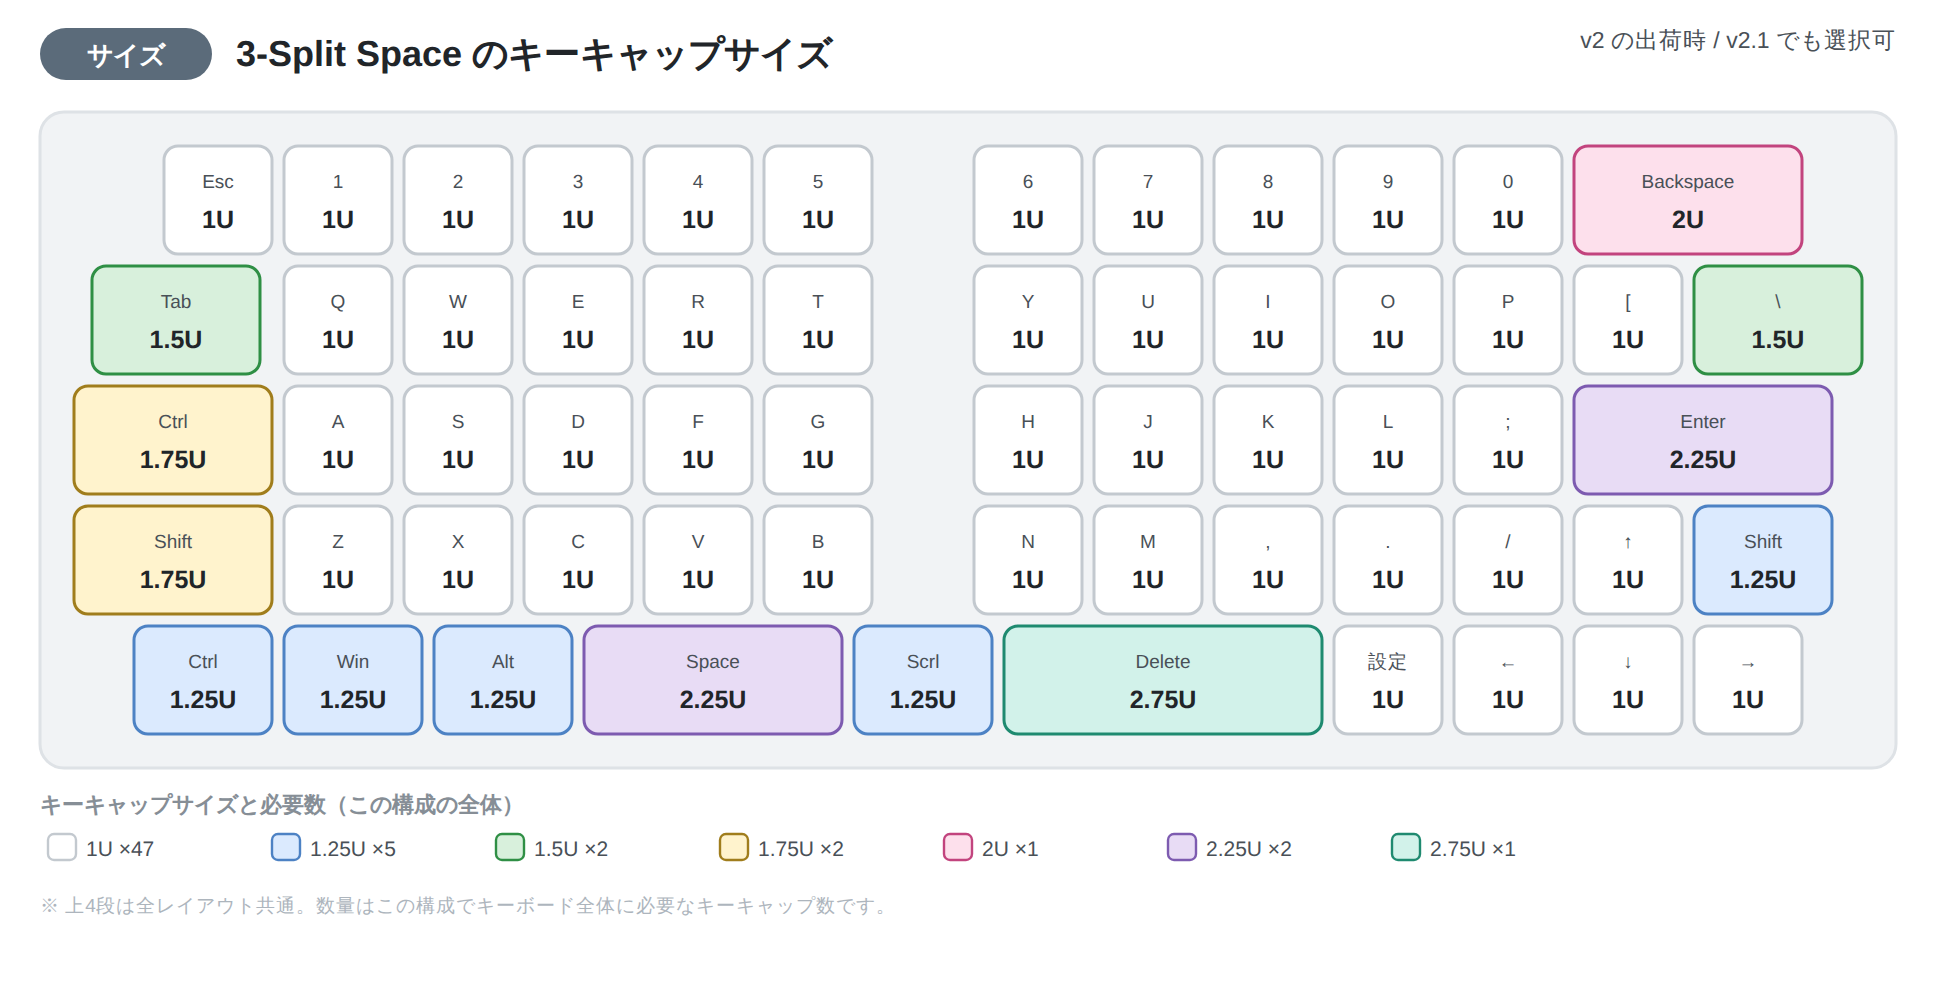
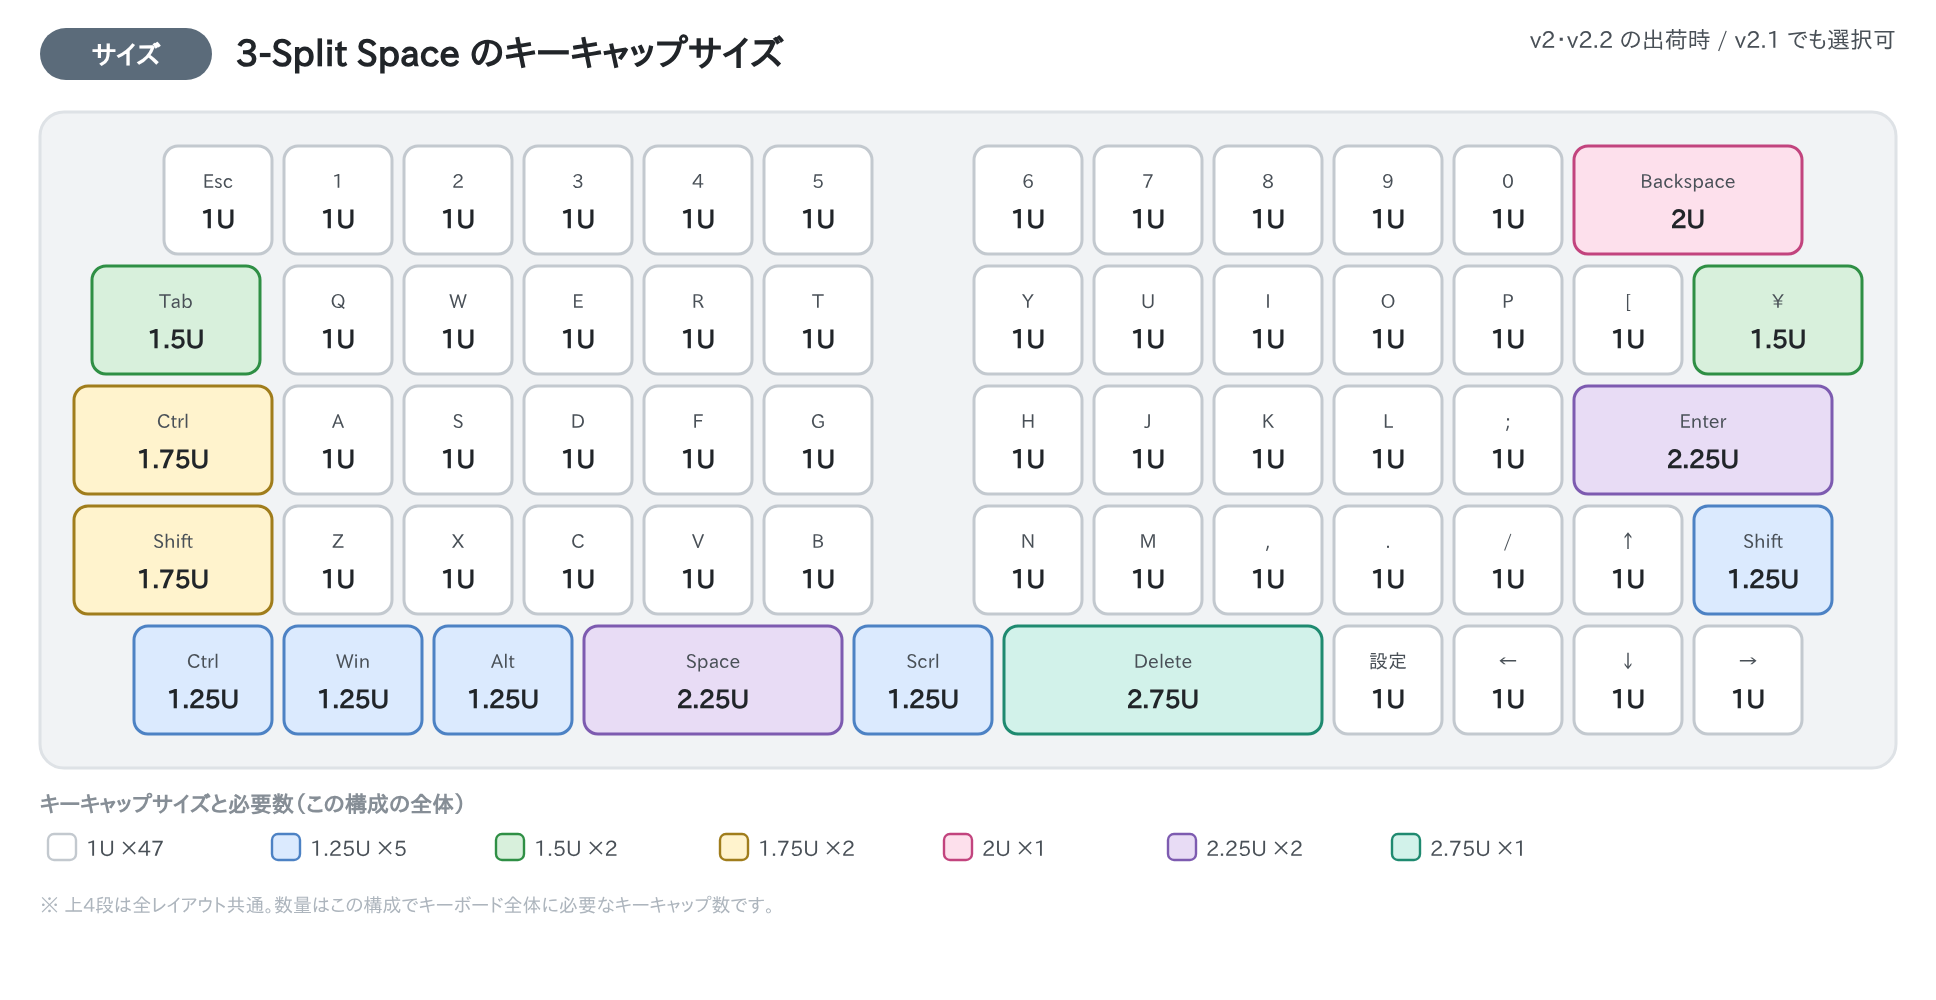
docs: describe v2.2 with the swappable space section of the top plate
v2.2 splits the top plate so only the space section is swapped
(3-Split/6.25U and 5-Split parts are both included), without removing
the plate or the TrackPoint flat cable. It ships in 3-Split, and the
Mill-Max sockets v2.1 had at the 5-Split positions are dropped, so
5-Split now needs soldered switches or user-installed sockets.

Claude-Session: https://claude.ai/code/session_017n7xLjWUCbtMxuRRuscdiZ

diff --git a/firmware/README.md b/firmware/README.md
@@ -22,7 +22,7 @@
 | お使いのスペース列 | そのまま使えるプリセット |
 |---|---|
 | **5 分割**（v2.1 の出荷時） | `OLSK60_v2_firmware_v<バージョン>_Vial_5split.uf2` |
-| **3 分割** | `OLSK60_v2_firmware_v<バージョン>_Vial_3split.uf2` |
+| **3 分割**（v2・v2.2 の出荷時） | `OLSK60_v2_firmware_v<バージョン>_Vial_3split.uf2` |
 
 **どちらを書き込んでも動作します。**キー配置は Vial でいつでも変更できるので、
 あとから好みに合わせて割り当て直すこともできます。
